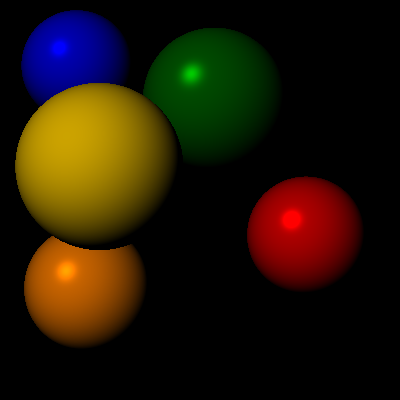
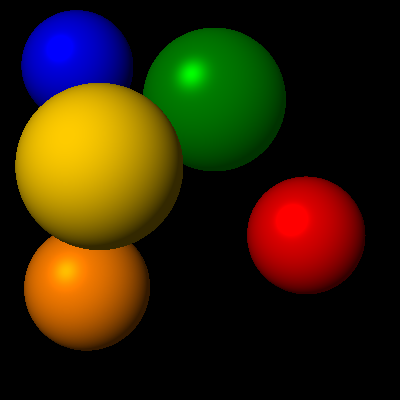
ambient shading

diff --git a/raytracerframework_cpp/Code/scene.cpp b/raytracerframework_cpp/Code/scene.cpp
@@ -81,6 +81,7 @@ Color Scene::trace(Ray const &ray)
     double b = color.b;
     double kd = material.kd;
     double ks = material.ks;
+    double ka = material.ka;
 
     // grab light source
     LightPtr firstLight = lights.front();
@@ -102,10 +103,16 @@ Color Scene::trace(Ray const &ray)
     l.normalize();
 
     // Phong Shading
-    double p = 100.0;
+    double p = 50.0;
     color.r = phongShading(r * kd, light.color.r, N, l, H, r * ks, p);
     color.g = phongShading(g * kd, light.color.g, N, l, H, g * ks, p);
     color.b = phongShading(b * kd, light.color.b, N, l, H, b * ks, p);
+
+    double intensity = 1.0;
+
+    color.r = color.r + r*intensity*ka;
+    color.g = color.g + g*intensity*ka;
+    color.b = color.b + b*intensity*ka;
 
     return color;
 }
